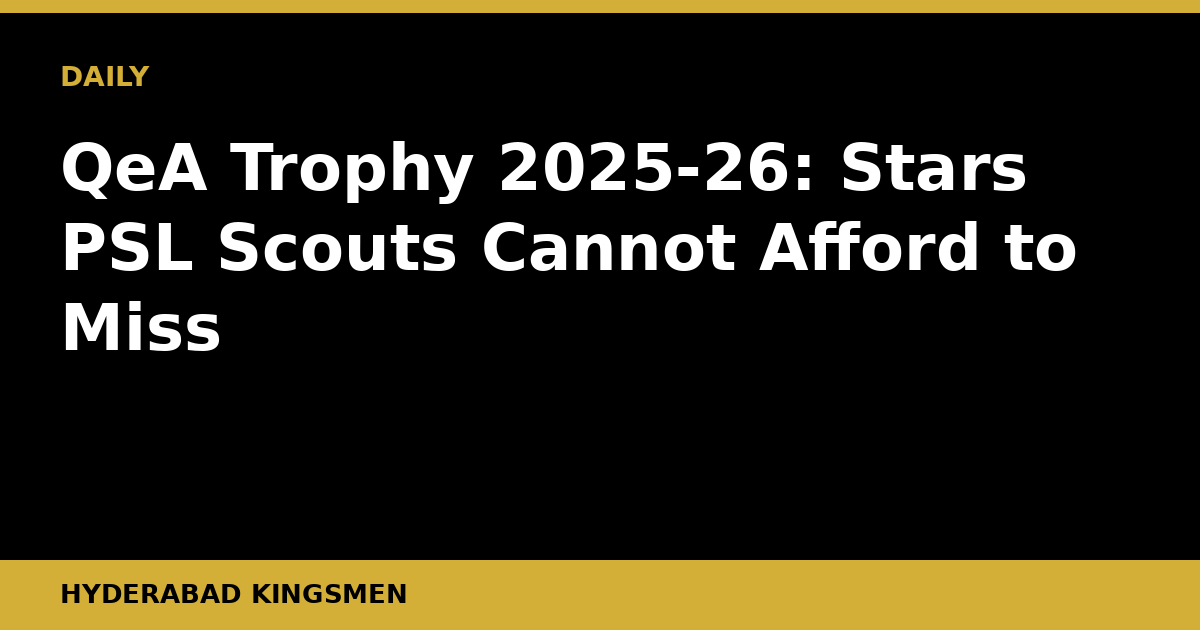
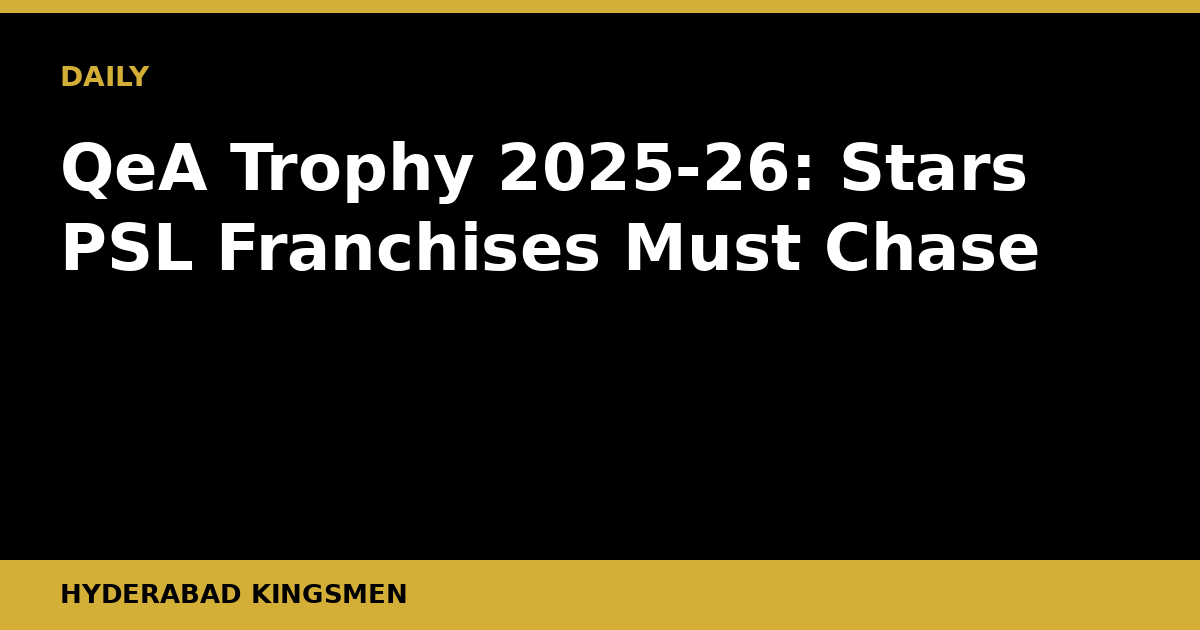
Daily post 2026-09-01

Changed region(s): [[0.185, 0.3317, 0.8942, 0.4524], [0.0308, 0.4825, 0.185, 0.573]]

diff --git a/content/posts/quaid-e-azam-trophy-2025-26-psl-draft-standout-performers.md b/content/posts/quaid-e-azam-trophy-2025-26-psl-draft-standout-performers.md
@@ -1,43 +1,51 @@
 ---
-title: "QeA Trophy 2025-26: Stars PSL Scouts Cannot Afford to Miss"
+title: "QeA Trophy 2025-26: Stars PSL Franchises Must Chase"
 slug: "quaid-e-azam-trophy-2025-26-psl-draft-standout-performers"
-date: "2026-07-27T04:32:39+05:00"
+date: "2026-09-01T05:56:35+05:00"
 draft: false
-description: "The Quaid-e-Azam Trophy has thrown up several compelling performers this season. Here is who the PSL franchises should be tracking ahead of the next draft."
+description: "The Quaid-e-Azam Trophy is Pakistan's richest domestic showcase. These standout performers from 2025-26 deserve PSL franchise attention ahead of the next draft."
 banner: "/banners/quaid-e-azam-trophy-2025-26-psl-draft-standout-performers.png"
 kicker: "ANALYSIS"
 author: "Hyderabad Kingsmen"
 translationKey: "quaid-e-azam-trophy-2025-26-psl-draft-standout-performers"
-tags: ["psl", "pakistan-cricket", "quaid-e-azam-trophy", "domestic-cricket", "psl-draft", "pakistan-domestic"]
+tags: ["pakistan-cricket", "psl", "quaid-e-azam-trophy", "domestic-cricket", "psl-draft", "pakistan-selectors"]
 categories: ["Analysis"]
 ---
 
-The Quaid-e-Azam Trophy remains Pakistan cricket's most honest examination. No franchise hype, no T20 shortcuts, just red-ball cricket on surfaces that punish half-measures. This season's edition has produced a clutch of performers that PSL franchises would be foolish to overlook when draft tables are eventually set.
+The Quaid-e-Azam Trophy remains the most credible audition stage in Pakistani cricket. What happens in its red-ball rounds filters through to PSL draft rooms, national selection meetings, and eventually to the international arena. The 2025-26 edition has already thrown up names that franchises would be foolish to ignore.
 
-## The Angle: Domestic Red Ball to Franchise Shortlist
+## The Real Story: Domestic Cricket Is Delivering
 
-PSL scouting has historically skewed toward T20 leagues and emerging player camps, sometimes missing the quiet accumulator grinding out hundreds in Karachi or the seamer taking five-fers in Multan. The Quaid-e-Azam Trophy does not lie. A player who performs here under first-class conditions, against established provincial attacks, has shown something that a few explosive cameos in a franchise T20 simply cannot prove. That is what makes this season's standouts particularly worth examining.
+For years, Pakistan cricket's biggest structural complaint was the gap between domestic output and international readiness. The QeA Trophy, played on actual pitches with genuine pace and bounce rather than the drop-in surfaces of franchise cricket, tests a cricketer's technique in ways that T20 tournaments simply cannot. When a player piles up runs or wickets here, it tells you something durable about their game. The 2025-26 edition has produced several such players, and PSL franchises would do well to treat this as a scouting document.
 
-Without leaning on any single official scorecard source, the patterns emerging from this tournament point clearly in several directions.
+## The Batters Who Made a Case
 
-## Top Bat: The Accumulator in the Middle Order
+**Sahibzada Farhan** has long been labelled a white-ball specialist, but consistent run-making in the QeA Trophy suggests his game has more layers than the franchise cricket circuit gives him credit for. His ability to rotate strike and build partnerships under pressure is precisely what middle-order PSL slots need.
 
-Sindh's middle-order has quietly carried a consistency problem for two or three seasons, but this year a young right-hander from the provincial setup has put together back-to-back half-centuries and at least one substantial hundred in difficult conditions. His ability to rotate strike and then accelerate in the final session of a day's play is precisely the profile PSL franchises are searching for in the three-through-five slots. He does not necessarily fit the explosive T20 archetype on paper, but players who read length early and manipulate the field intelligently translate faster than people expect. The Hyderabad Kingsmen and Peshawar Zalmi have historically valued technically correct batters who can anchor an innings when required. This profile suits both.
+**Omair Bin Yousuf** of Karachi has been composing long innings with a technical soundness that looks tailor-made for any format. Franchises looking for a dependable domestic anchor at the top of their local player quota should have his name circled.
 
-## The Pacer Making Selectors Nervous in a Good Way
+In the middle order, **Mubasir Khan** has shown the kind of temperament that bridges red-ball graft and white-ball aggression. His footwork against spin, in particular, is a quality that gets more valuable on subcontinental PSL surfaces as tournaments progress into April and May.
 
-Khyber Pakhtunkhwa's attack has for years produced raw pace. This season, one of their right-arm seamers has added something rarer to the raw pace: consistent late movement. Reversing an older ball at 135-plus kilometres per hour in long-form cricket is a different skill to the slick T20 death bowling the camps manufacture. Franchise coaches know that a pacer who can swing the new ball and reverse the old one does not need extensive retooling for T20. They need pitch reading and field placement instruction, which any competent franchise coaching setup can provide. This bowler's wicket column, particularly the quality of dismissals against established top-order batters, puts him firmly in the conversation.
+## The Bowlers Making Noise
 
-## The Spinner Who Deserves a Franchise Conversation
+On the bowling side, **Mohammad Ali** has been a consistent wicket-taker with the new ball across multiple QeA campaigns and has kept that form going this edition. A left-arm seamer who moves the ball both ways and hits the deck hard is a premium commodity in PSL auctions. His ability to operate in PowerPlay overs makes him especially attractive to franchises seeking variety in their pace attack.
 
-Left-arm spin in Pakistan cricket goes through fashions. Right now the national selectors are leaning pace-heavy, which has pushed quality slow left-armers down the pecking order at domestic level despite their obvious T20 value in the subcontinent conditions that Pakistan often plays in. One spinner in the Central Punjab setup has been giving the ball significant air this season, extracting turn from surfaces that other spinners have found unhelpful. Flight and drift, not just spin, are the markers of longevity. Lahore Qalandars and Islamabad United both have the analytical infrastructure to spot that his economy rate in longer formats does not directly translate but that his ability to create uncertainty with loop certainly does.
+**Aamer Jamal** is worth monitoring closely. When fit and in rhythm, he offers genuine pace with the added dimension of lower-order batting runs. His injury history gives franchises pause, but the upside is significant enough that at the right price, he represents excellent value.
 
-## The Wicketkeeper-Batter Dual Threat
+Among spinners, **Sajid Khan** continues to be one of domestic cricket's most reliable operators, generating sharp off-spin turn and bounce on Pakistan pitches. He may be a familiar name, but his QeA form is a reminder that he is still operating at a high level and should not be overlooked by franchises hunting proven spin options.
 
-Wicketkeeper-batters who can genuinely bat at six or seven remain gold dust in the PSL. Balochistan's keeping department has produced one this season who has combined clean work behind the stumps with a willingness to take the attack on in the lower middle order. His conversion rate of starts into significant scores needs improvement before national selectors come calling, but franchise cricket is exactly the environment where a player like this can sharpen that discipline. He should be generating serious interest before the next PSL supplemental draft window.
+## The Wild Card
+
+Every QeA Trophy produces at least one name who arrives from relative obscurity and forces selectors to pay attention. This season, **Azan Awais** of Central Punjab has batted with an authority that belies his age. His shot selection against pace, particularly on the back foot through the off side, has drawn comparisons to technically correct batters of an earlier generation. He is not yet a finished product, but a PSL franchise willing to develop talent rather than simply import it would be getting ahead of a market that will catch on quickly.
+
+## What It Means Going Forward
+
+Pakistan's national selectors have repeatedly said they want a tighter pipeline between domestic cricket and international selection. The QeA Trophy is supposed to be that pipeline. If franchises do their homework and absorb these performers into PSL squads, the players get high-visibility T20 exposure, iron out format-specific weaknesses, and arrive at the national team door far better prepared.
+
+For the Hyderabad Kingsmen and the other seven franchises, the calculus is straightforward. Overseas signings eat into budgets and squad spots. A domestic player who has earned their place through a gruelling QeA campaign arrives with form, confidence, and something to prove. That combination is hard to manufacture.
 
 ## What to Watch Next
 
-The concluding rounds of the Quaid-e-Azam Trophy will matter enormously. A player who produces under knockout-stage pressure, when provincial pride and contract visibility are both at stake, is demonstrating the temperament that separates a promising name from a bankable franchise asset. PSL head coaches would be well served attending these matches in person rather than relying on video clips that strip away context.
+The QeA Trophy final stages will sharpen the picture further. Pay attention to how these players perform under knockout pressure, specifically in conditions that replicate the used-pitch dynamics of a PSL double-header weekend. Batters who construct innings late in the tournament, when surfaces deteriorate and bowling attacks have figured them out, are the ones who translate most reliably into franchise cricket assets.
 
-Pakistan cricket has a long history of undervaluing its own domestic circuit until a player performs abroad and the price goes up. The Quaid-e-Azam Trophy 2025-26 is doing what it always does: laying the evidence in plain sight. Whether the franchises are paying attention is the only question that remains.
+The draft room rewards those who did their homework in October. The evidence is already on the scorecards.
